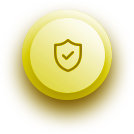
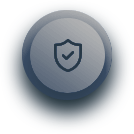
Edited and updated the images in the relevant color pallete

diff --git a/index.html b/index.html
@@ -106,7 +106,7 @@
               <!-- secondery menu end -->
 
               <li class="nav-item">
-                <a class="nav-link dark_btn" href="https://vydic-plus.busyness.app/#/">SHOP NOW</a>
+                <a class="nav-link dark_btn" href="https://garage-nation.busyness.app/">SHOP NOW</a>
               </li>
             </ul>
           </div>
@@ -122,15 +122,15 @@
       <div class="container">
         <!-- vertical animation line -->
         <div class="anim_line">
-          <span><img src="images/anim_line_garag_blue.png" alt="anim_line"></span>
-          <span><img src="images/anim_line_garag_blue.png" alt="anim_line"></span>
-          <span><img src="images/anim_line_garag_blue.png" alt="anim_line"></span>
-          <span><img src="images/anim_line_garag_blue.png" alt="anim_line"></span>
-          <span><img src="images/anim_line_garag_blue.png" alt="anim_line"></span>
-          <span><img src="images/anim_line_garag_blue.png" alt="anim_line"></span>
-          <span><img src="images/anim_line_garag_blue.png" alt="anim_line"></span>
-          <span><img src="images/anim_line_garag_blue.png" alt="anim_line"></span>
-          <span><img src="images/anim_line_garag_blue.png" alt="anim_line"></span>
+          <span><img src="images/anim_line.png" alt="anim_line"></span>
+          <span><img src="images/anim_line.png" alt="anim_line"></span>
+          <span><img src="images/anim_line.png" alt="anim_line"></span>
+          <span><img src="images/anim_line.png" alt="anim_line"></span>
+          <span><img src="images/anim_line.png" alt="anim_line"></span>
+          <span><img src="images/anim_line.png" alt="anim_line"></span>
+          <span><img src="images/anim_line.png" alt="anim_line"></span>
+          <span><img src="images/anim_line.png" alt="anim_line"></span>
+          <span><img src="images/anim_line.png" alt="anim_line"></span>
         </div>
         <!-- row start -->
         <div class="row">
@@ -138,19 +138,20 @@
             <!-- banner text -->
             <div class="banner_text">
               <!-- h1 -->
-              <h1><span>VYDIC PLUS</span>  Transforming Health Access</h1>
+              <h1><span>GARAGE NATION</span></h1>
+              <h1>Unlocking Performance, One Service at a Time.</h1>
               <!-- p -->
               <p>Medicines at Your Doorstep, Doctor Consultation in a Blink!
               </p>
             </div>
             <!-- app buttons -->
             <ul class="app_btn">
-              <!-- <li>
+              <li>
                 <a href="https://apps.apple.com/us/app/busyness-app/id1592817143" target="_blank">
                   <img class="blue_img" src="images/appstore_blue.png" alt="App Store">
                   <img class="white_img" src="images/appstore_white.png" alt="App Store">
                 </a>
-              </li> -->
+              </li>
               <li>
                 <a href="https://play.google.com/store/apps/details?id=vydic.busyness.app&pcampaignid=web_share" target="_blank">
                   <img class="blue_img" src="images/googleplay_blue.png" alt="Google Play">
@@ -811,11 +812,11 @@
                       <img src="images/googleplay_blue.png" alt="image">
                     </a>
                   </li>
-                  <!-- <li>
+                  <li>
                     <a href="#">
                       <img src="images/googleplay_blue.png" alt="image">
                     </a>
-                  </li> -->
+                  </li>
                 </ul>
               </div>
             </div>
@@ -888,7 +889,7 @@
             <!-- footer link 1 -->
             <div class="col-lg-4 col-md-6 col-12">
               <div class="abt_side">
-                <div class="logo"> <img src="images/vedic-plus-logo-footer-min.png" alt="image"></div>
+                <div class="logo"> <img src="images/garage_nation_footer_logo.png" alt="image"></div>
                 <ul>
                   <li><a href="https://wa.me/+917330908172/?text=Hi%20Vydic Plus,%20I%20want%20to%20order%20online.%20" target="_blank">Support @ Whatsapp</a></li>
                   <li><a href="#">+91 8977006099</a></li>
@@ -935,11 +936,11 @@
               <div class="try_out">
                 <h3>Download the App Today!</h3>
                 <ul class="app_btn">
-                  <!-- <li>
+                  <li>
                     <a href="#">
                       <img src="images/appstore_blue.png" alt="image">
                     </a>
-                  </li> -->
+                  </li>
                   <li>
                     <a href="https://play.google.com/store/apps/details?id=vydic.busyness.app&pcampaignid=web_share">
                       <img src="images/googleplay_blue.png" alt="image">

diff --git a/css/style.css b/css/style.css
@@ -145,7 +145,7 @@
     --bg-white: #ffffff;
     --slider-dots-color: #c0c0c0;
     --light-bg: #ffffff;
-    --bg-yellow: #edc44f;
+    --bg-yellow: #304656;
 }
 
 
@@ -700,13 +700,14 @@ header.fixed .navbar {
 
 /* hero slider heading h1 */
 .banner_section .banner_text h1 {
-    font-size: 55px;
+    font-size: 45px;
     color: var(--dark-purple);
     letter-spacing: -1.5px;
     font-weight: 700;
 }
 
 .banner_section .banner_text h1 span {
+    font-size: 55px;
     color: var(--purple);
 }
 
@@ -1815,7 +1816,7 @@ iframe#youtubevideo {
 }
 
 .free_app_section .container .free_app_inner {
-    background-color: #4e3822;
+    background-color: #a87759;
     border-radius: 30px;
     padding: 20px 100px;
     padding-bottom: 50px;
@@ -2066,7 +2067,7 @@ footer {
 }
 
 footer .top_footer {
-    background-color: #4e3822;
+    background-color: #a87759;
     padding: 80px 0 60px 0;
     position: relative;
     overflow: hidden;
@@ -2430,7 +2431,7 @@ footer .top_footer .anim_line span:nth-child(2) {
 /*------Header Btn Animation------*/
 @keyframes pulse-blue-small-sm {
   0% {
-    box-shadow: 0 0 0 0 rgba(222, 71, 73, 1);
+    box-shadow: 0 0 0 0 rgb(14, 15, 40);
   }
 
   100%,
@@ -2441,7 +2442,7 @@ footer .top_footer .anim_line span:nth-child(2) {
 
 @keyframes pulse-blue-medium-sm {
   0% {
-    box-shadow: 0 0 0 0  rgba(222, 71, 73, 1);
+    box-shadow: 0 0 0 0  rgb(33, 35, 87);
   }
 
   100%,

diff --git a/css/responsive.css b/css/responsive.css
@@ -1,6 +1,6 @@
 :root {
     --light-purple: #ffffff;
-    --purple: #F3BC46;
+    --purple: #304656;
     --bg-purple: #DC2249;
     --dark-purple: #000000;
     --body-text-purple: #000000;
@@ -8,7 +8,7 @@
     --bg-white: #ffffff;
     --slider-dots-color: #c0c0c0;
     --light-bg: #ffffff;
-    --bg-yellow: #edc44f;
+    --bg-yellow: #304656;
 }
 
 /* ------Media-Query-Start--------- */
